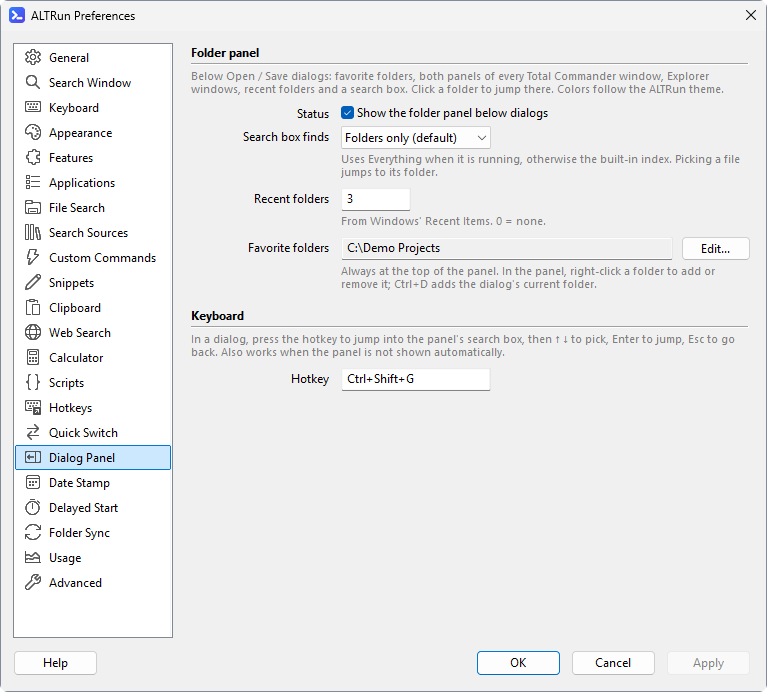
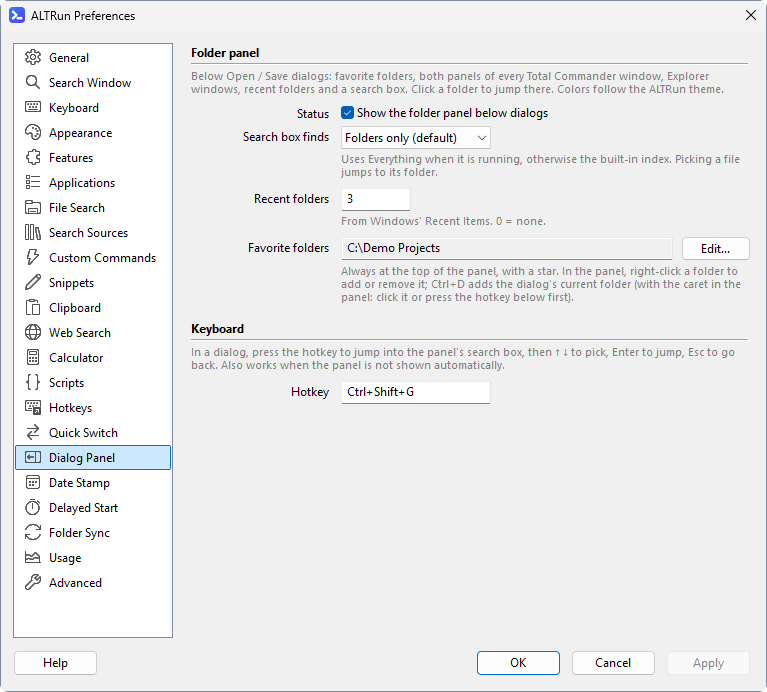
Make Favorites in the Dialog Panel Easier to See (Test Build 2026.11.03.16) (#391)
Refs #368

Changed region(s): [[0.2399, 0.4552, 0.9596, 0.5766], [0.4498, 0.3642, 0.9596, 0.4552]]

diff --git a/docs/wiki/Quick-Switch-Panel-zh.md b/docs/wiki/Quick-Switch-Panel-zh.md
@@ -18,9 +18,10 @@
 
 ## 收藏的文件夹
 
-经常保存到、或者从里面打开文件的文件夹, 可以固定显示在面板最上面, 标着 "收藏":
+经常保存到、或者从里面打开文件的文件夹, 可以固定显示在面板最上面, 带星形图标, 标着 "收藏":
 
-- **加入**: 在面板里右键点一个文件夹 → **加入收藏**; 或者右键 → **把当前文件夹 "…" 加入收藏** (也可以在面板里按 `Ctrl+D`), 把对话框现在显示的文件夹加进去。
+- **加入**: 在面板里右键点一个文件夹 → **加入收藏**; 或者右键 → **把当前文件夹 "…" 加入收藏**, 把对话框现在显示的文件夹加进去。会弹出一条简短的提示, 并选中这个收藏。
+- **键盘**: 光标在面板里时 (先点一下面板, 或者按 `Ctrl+Shift+G`), 按 `Ctrl+D` 把对话框当前的文件夹加入收藏。在对话框里按 `Ctrl+D` 是 [日期戳](Date-Stamp-zh) 的热键, 会往文件名里加日期。
 - **删除**: 右键点收藏的文件夹 → **从收藏中删除**。
 - **编辑列表**: 偏好设置 → 对话框面板 → "收藏的文件夹" → **编辑...**, 每行一个文件夹; 可以用 `%USERPROFILE%\Documents` 这样的环境变量。
 

diff --git a/docs/wiki/Quick-Switch-Panel.md b/docs/wiki/Quick-Switch-Panel.md
@@ -18,9 +18,10 @@ In a standard Open / Save dialog, `Ctrl+Shift+G` temporarily shows the panel and
 
 ## Favorite folders
 
-Folders you often save to or open from can be kept at the top of the panel, marked "Favorite":
+Folders you often save to or open from can be kept at the top of the panel, with a star icon and marked "Favorite":
 
-- **Add**: right-click a folder in the panel → **Add to Favorites**, or right-click → **Add Current Folder "…" to Favorites** (or `Ctrl+D` in the panel) for the folder the dialog shows now.
+- **Add**: right-click a folder in the panel → **Add to Favorites**, or right-click → **Add Current Folder "…" to Favorites** for the folder the dialog shows now. A short notice confirms it and the favorite is selected.
+- **Keyboard**: `Ctrl+D` adds the dialog's current folder while the caret is in the panel (click the panel, or press `Ctrl+Shift+G`, first). In the dialog itself `Ctrl+D` is the [date stamp](Date-Stamp) hotkey and adds a date to the file name.
 - **Remove**: right-click a favorite → **Remove from Favorites**.
 - **Edit the list**: Preferences → Dialog Panel → "Favorite folders" → **Edit...**, one folder per line; environment variables such as `%USERPROFILE%\Documents` work.
 

diff --git a/CHANGELOG.md b/CHANGELOG.md
@@ -5,6 +5,16 @@
 
 ## [未发布]
 
+## [2026.11.03.16]
+
+测试版。
+
+Test build.
+
+### 改进
+- 对话框文件夹面板的收藏更容易看清: 收藏的文件夹用星形图标; 加入或删除收藏后弹出 ALTRun 自己的提示 (以前用 Windows 通知, 关掉通知时看不到), 加入后选中这个收藏
+- 说明写清楚 `Ctrl+D` 要在光标位于面板里时按 (先点一下面板, 或者按 `Ctrl+Shift+G`); 在对话框里按 `Ctrl+D` 是日期戳的热键
+
 ## [2026.11.03.15]
 
 测试版。
@@ -1187,7 +1197,8 @@ Smoother typing, easier to get started, and a few useful new features.
 ## 更早的版本
 见 [GitHub Releases](https://github.com/zhugecaomao/ALTRun/releases)。
 
-[未发布]: https://github.com/zhugecaomao/ALTRun/compare/2026.11.03.15...HEAD
+[未发布]: https://github.com/zhugecaomao/ALTRun/compare/2026.11.03.16...HEAD
+[2026.11.03.16]: https://github.com/zhugecaomao/ALTRun/compare/2026.11.03.15...2026.11.03.16
 [2026.11.03.15]: https://github.com/zhugecaomao/ALTRun/compare/2026.11.03.14...2026.11.03.15
 [2026.11.03.14]: https://github.com/zhugecaomao/ALTRun/compare/2026.11.03.13...2026.11.03.14
 [2026.11.03.13]: https://github.com/zhugecaomao/ALTRun/compare/2026.11.03.12...2026.11.03.13
